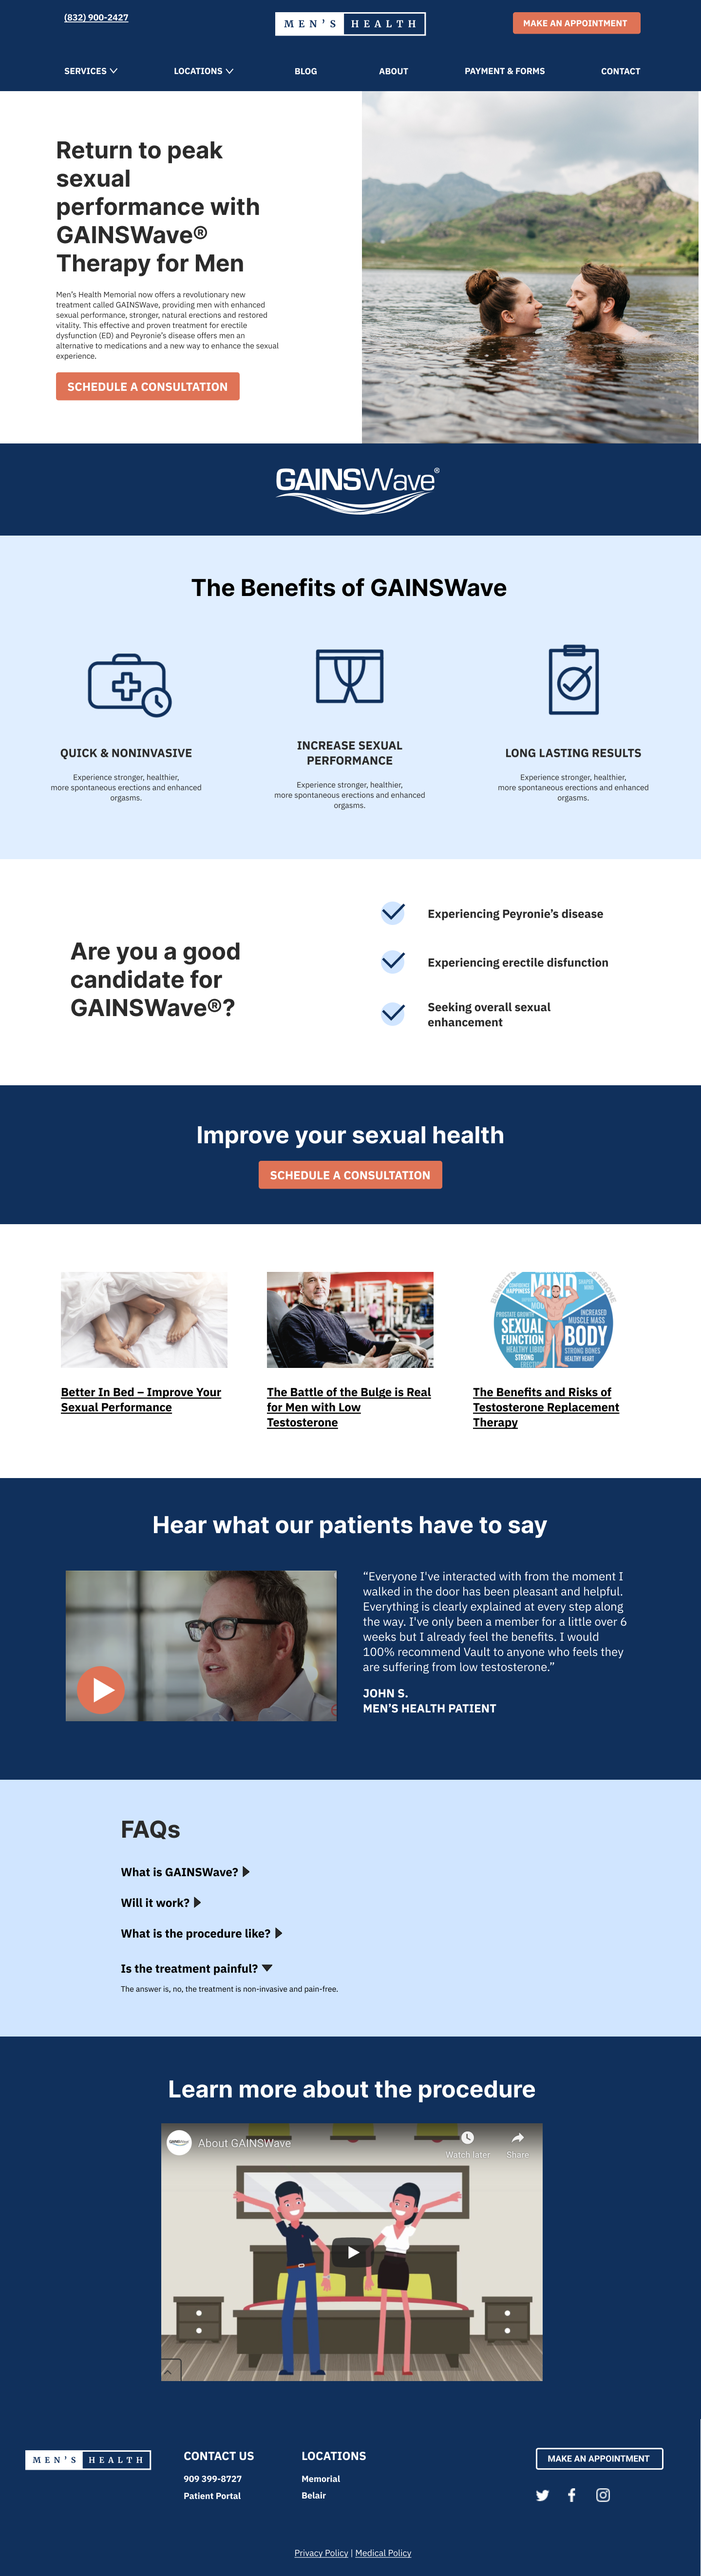
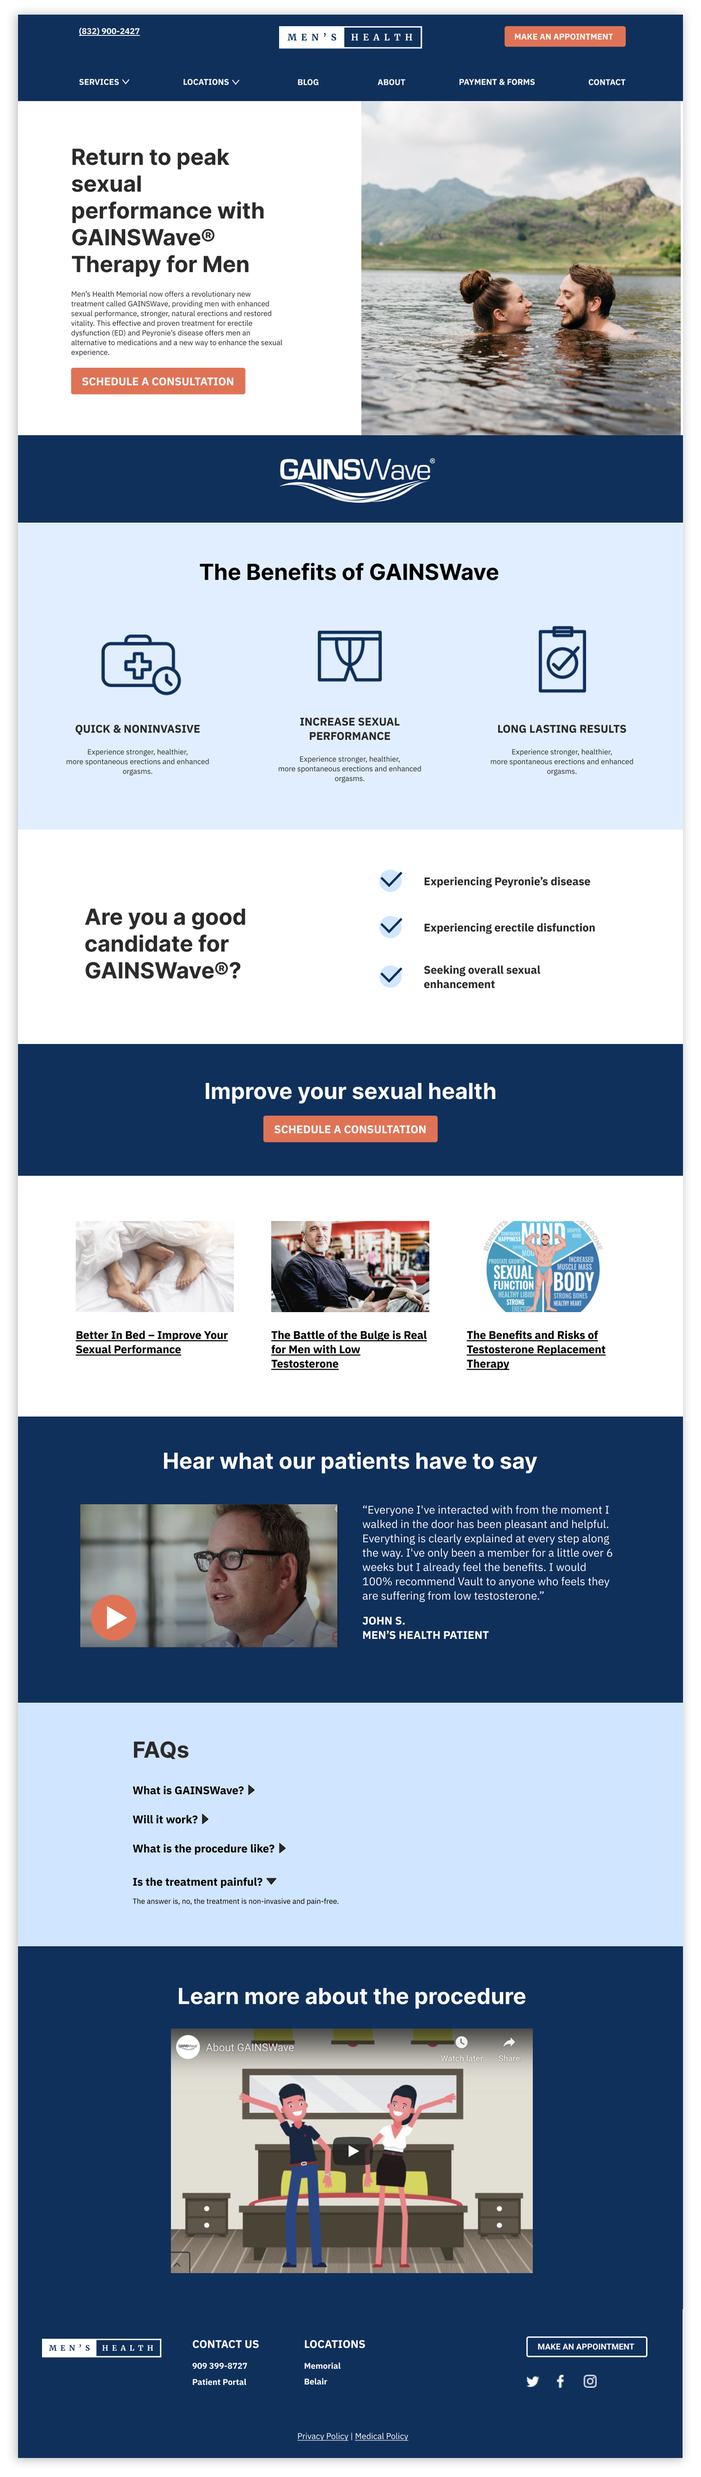
usability testing on the mens health page

diff --git a/src/pages/MensHealth.js b/src/pages/MensHealth.js
@@ -22,8 +22,9 @@ import SiteMap2 from 'static/images/MensHealth/SiteMap2.png'
 import MHHLogo from 'static/images/MensHealth/MHHLogo.png'
 import MHHBranding from 'static/images/MensHealth/MHHBranding.png'
 import CompareWires from 'static/images/MensHealth/compareWire.png'
-import HomeDesktop from 'static/images/MensHealth/HomePage_Desktop.png'
+import HomeDesktop from 'static/images/MensHealth/HomePage_Desktop2.png'
 import GainsWaveDesktop from 'static/images/MensHealth/GainsWave_Desktop.png'
+import MapModal from 'static/images/MensHealth/MapModal.png'
 
 
 const useStyles = createUseStyles({
@@ -159,13 +160,13 @@ export default () => {
 				<Image src={MHHBranding} size="full" />
 			</ContentBlock>
 			<ContentBlock className={classes.orangeBlock}>
-				<Heading>Visual Designs</Heading> 
+				<Heading>Visual Designs</Heading>
 				<VideoPlayer
 					src="https://player.vimeo.com/video/440119937?loop=1"
 					title="Prototype Animation"
 					aspectRatio="16:9"
 				/>
-				<ItemGrid startAligned>
+				<ItemGrid startAligned stackedOnMobile>
 					<Image className={classes.half} size="full" src={HomeDesktop} />
 					<Image className={classes.half} size="full" src={GainsWaveDesktop} />
 				</ItemGrid>
@@ -173,16 +174,43 @@ export default () => {
 			<div className={classes.sectionLabel}>
 				TEST
 			</div>
-			<ContentBlock>
-				<Heading>Testing</Heading>
+			<ContentBlock className={classes.blueBlock}>
+				<Heading>Usability Testing</Heading>
+				<Spacer />
+				<ItemGrid startAligned>
+					<div className={classes.half}>
+						<Heading>100%</Heading>
+						<SubHeading>of participants were able to learn about a service and book an appointment with no problems</SubHeading>
+					</div>
+					<div className={classes.half}>
+						<Heading>100%</Heading>
+						<SubHeading>of participants used the icon-based navigation on the home page</SubHeading>
+					</div>
+				</ItemGrid>
+				<Spacer />
+				<ItemGrid>
+					<div className={classes.half}>
+						<SubHeading>
+							Multiple CTAs
+						</SubHeading>
+						<Body>
+							There were CTAs to schedule an appointment at multiple points throughout the page. Each participant used a different CTA to schedule their appointment which validates each individual placement.
+						</Body>
+					</div>
+					<Image className={classes.half} src={MapModal} size="full" />
+				</ItemGrid>
 			</ContentBlock>
 			<div className={classes.sectionLabel}>
 				DEVELOP
 			</div>
-			<ContentBlock>
+			<ContentBlock className={classes.whiteBlock}>
 				<Heading>Key learnings</Heading>
 				<Spacer />
 				<SubHeading>Developer Handoff</SubHeading>
+				<Spacer />
+				<SubHeading>Client Project Management</SubHeading>
+				<Spacer />
+				<SubHeading>Compenetizing</SubHeading>
 			</ContentBlock>
 		</PageWrapper>
 	)
